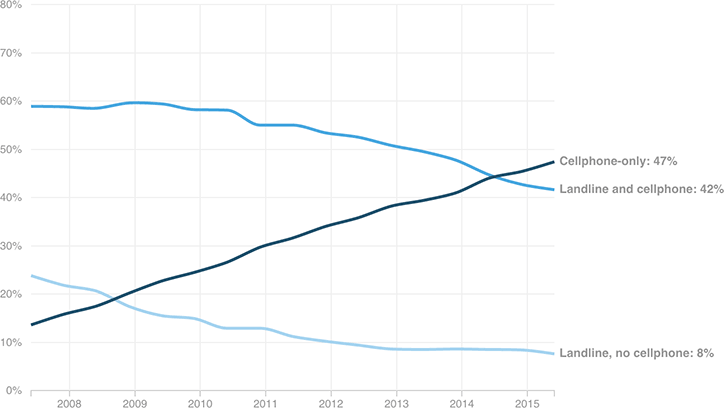
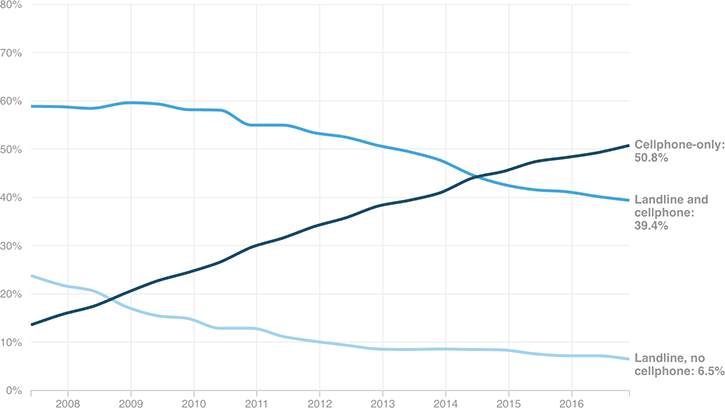
update phone-households-20151203

diff --git a/2015/12/phone-households-20151203/js/graphic-footer.js b/2015/12/phone-households-20151203/js/graphic-footer.js
@@ -8,6 +8,5 @@
  * Build: http://modernizr.com/download/#-svg
  */
 ;window.Modernizr=function(a,b,c){function u(a){i.cssText=a}function v(a,b){return u(prefixes.join(a+";")+(b||""))}function w(a,b){return typeof a===b}function x(a,b){return!!~(""+a).indexOf(b)}function y(a,b,d){for(var e in a){var f=b[a[e]];if(f!==c)return d===!1?a[e]:w(f,"function")?f.bind(d||b):f}return!1}var d="2.7.1",e={},f=b.documentElement,g="modernizr",h=b.createElement(g),i=h.style,j,k={}.toString,l={svg:"http://www.w3.org/2000/svg"},m={},n={},o={},p=[],q=p.slice,r,s={}.hasOwnProperty,t;!w(s,"undefined")&&!w(s.call,"undefined")?t=function(a,b){return s.call(a,b)}:t=function(a,b){return b in a&&w(a.constructor.prototype[b],"undefined")},Function.prototype.bind||(Function.prototype.bind=function(b){var c=this;if(typeof c!="function")throw new TypeError;var d=q.call(arguments,1),e=function(){if(this instanceof e){var a=function(){};a.prototype=c.prototype;var f=new a,g=c.apply(f,d.concat(q.call(arguments)));return Object(g)===g?g:f}return c.apply(b,d.concat(q.call(arguments)))};return e}),m.svg=function(){return!!b.createElementNS&&!!b.createElementNS(l.svg,"svg").createSVGRect};for(var z in m)t(m,z)&&(r=z.toLowerCase(),e[r]=m[z](),p.push((e[r]?"":"no-")+r));return e.addTest=function(a,b){if(typeof a=="object")for(var d in a)t(a,d)&&e.addTest(d,a[d]);else{a=a.toLowerCase();if(e[a]!==c)return e;b=typeof b=="function"?b():b,typeof enableClasses!="undefined"&&enableClasses&&(f.className+=" "+(b?"":"no-")+a),e[a]=b}return e},u(""),h=j=null,e._version=d,e}(this,this.document);
-(function(factory){if(typeof define==='function'&&define.amd)define(factory);else if(typeof module!=='undefined'&&module.exports)module.exports=factory();else window.pym=factory.call(this);})(function(){var MESSAGE_DELIMITER='xPYMx';var lib={};var _getParameterByName=function(name){var regex=new RegExp("[\\?&]"+name.replace(/[\[]/,'\\[').replace(/[\]]/,'\\]')+'=([^&#]*)');var results=regex.exec(location.search);if(results===null)return '';return decodeURIComponent(results[1].replace(/\+/g," "));};var _isSafeMessage=function(e,settings){if(settings.xdomain!=='*')if(!e.origin.match(new RegExp(settings.xdomain+'$')))return;return true;};var _makeMessage=function(id,messageType,message){var bits=['pym',id,messageType,message];return bits.join(MESSAGE_DELIMITER);};var _makeMessageRegex=function(id){var bits=['pym',id,'(\\S+)','(.+)'];return new RegExp('^'+bits.join(MESSAGE_DELIMITER)+'$');};var _autoInit=function(){var elements=document.querySelectorAll('[data-pym-src]:not([data-pym-auto-initialized])');var length=elements.length;for(var idx=0;idx<length;++idx){var element=elements[idx];element.setAttribute('data-pym-auto-initialized','');if(element.id==='')element.id='pym-'+idx;var src=element.getAttribute('data-pym-src');var xdomain=element.getAttribute('data-pym-xdomain');var config={};if(xdomain)config.xdomain=xdomain;new lib.Parent(element.id,src,config);}};lib.Parent=function(id,url,config){this.id=id;this.url=url;this.el=document.getElementById(id);this.iframe=null;this.settings={xdomain:'*'};this.messageRegex=_makeMessageRegex(this.id);this.messageHandlers={};config=(config||{});this._constructIframe=function(){var width=this.el.offsetWidth.toString();this.iframe=document.createElement('iframe');var hash='';var hashIndex=this.url.indexOf('#');if(hashIndex>-1){hash=this.url.substring(hashIndex,this.url.length);this.url=this.url.substring(0,hashIndex);}if(this.url.indexOf('?')<0)this.url+='?';else this.url+='&';this.iframe.src=this.url+'initialWidth='+width+'&childId='+this.id+'&parentUrl='+encodeURIComponent(window.location.href)+hash;this.iframe.setAttribute('width','100%');this.iframe.setAttribute('scrolling','no');this.iframe.setAttribute('marginheight','0');this.iframe.setAttribute('frameborder','0');this.el.appendChild(this.iframe);window.addEventListener('resize',this._onResize);};this._onResize=function(){this.sendWidth();}.bind(this);this._fire=function(messageType,message){if(messageType in this.messageHandlers)for(var i=0;i<this.messageHandlers[messageType].length;i++)this.messageHandlers[messageType][i].call(this,message);};this.remove=function(){window.removeEventListener('message',this._processMessage);window.removeEventListener('resize',this._onResize);this.el.removeChild(this.iframe);};this._processMessage=function(e){if(!_isSafeMessage(e,this.settings))return;if(typeof e.data!=='string')return;var match=e.data.match(this.messageRegex);if(!match||match.length!==3)return false;var messageType=match[1];var message=match[2];this._fire(messageType,message);}.bind(this);this._onHeightMessage=function(message){var height=parseInt(message);this.iframe.setAttribute('height',height+'px');};this._onNavigateToMessage=function(message){document.location.href=message;};this.onMessage=function(messageType,callback){if(!(messageType in this.messageHandlers))this.messageHandlers[messageType]=[];this.messageHandlers[messageType].push(callback);};this.sendMessage=function(messageType,message){this.el.getElementsByTagName('iframe')[0].contentWindow.postMessage(_makeMessage(this.id,messageType,message),'*');};this.sendWidth=function(){var width=this.el.offsetWidth.toString();this.sendMessage('width',width);};for(var key in config)this.settings[key]=config[key];this.onMessage('height',this._onHeightMessage);this.onMessage('navigateTo',this._onNavigateToMessage);window.addEventListener('message',this._processMessage,false);this._constructIframe();return this;};lib.Child=function(config){this.parentWidth=null;this.id=null;this.parentUrl=null;this.settings={renderCallback:null,xdomain:'*',polling:0};this.messageRegex=null;this.messageHandlers={};config=(config||{});this.onMessage=function(messageType,callback){if(!(messageType in this.messageHandlers))this.messageHandlers[messageType]=[];this.messageHandlers[messageType].push(callback);};this._fire=function(messageType,message){if(messageType in this.messageHandlers)for(var i=0;i<this.messageHandlers[messageType].length;i++)this.messageHandlers[messageType][i].call(this,message);};this._processMessage=function(e){if(!_isSafeMessage(e,this.settings))return;if(typeof e.data!=='string')return;var match=e.data.match(this.messageRegex);if(!match||match.length!==3)return;var messageType=match[1];var message=match[2];this._fire(messageType,message);}.bind(this);this._onWidthMessage=function(message){var width=parseInt(message);if(width!==this.parentWidth){this.parentWidth=width;if(this.settings.renderCallback)this.settings.renderCallback(width);this.sendHeight();}};this.sendMessage=function(messageType,message){window.parent.postMessage(_makeMessage(this.id,messageType,message),'*');};this.sendHeight=function(){var height=document.getElementsByTagName('body')[0].offsetHeight.toString();this.sendMessage('height',height);}.bind(this);this.scrollParentTo=function(hash){this.sendMessage('navigateTo','#'+hash);};this.navigateParentTo=function(url){this.sendMessage('navigateTo',url);};this.id=_getParameterByName('childId')||config.id;this.messageRegex=new RegExp('^pym'+MESSAGE_DELIMITER+this.id+MESSAGE_DELIMITER+'(\\S+)'+MESSAGE_DELIMITER+'(.+)$');var width=parseInt(_getParameterByName('initialWidth'));this.parentUrl=_getParameterByName('parentUrl');this.onMessage('width',this._onWidthMessage);for(var key in config)this.settings[key]=config[key];window.addEventListener('message',this._processMessage,false);if(this.settings.renderCallback)this.settings.renderCallback(width);this.sendHeight();if(this.settings.polling)window.setInterval(this.sendHeight,this.settings.polling);return this;};_autoInit();return lib;});
 var DEFAULT_WIDTH=600;var MOBILE_THRESHOLD=500;var fmtComma=d3.format(',');var fmtYearAbbrev=d3.time.format('%y');var fmtYearFull=d3.time.format('%Y');
-var pymChild=null;var isMobile=false;var dataSeries=[];var onWindowLoaded=function(){if(Modernizr.svg){formatData();pymChild=new pym.Child({renderCallback:render});}else pymChild=new pym.Child({});};var formatData=function(){DATA.forEach(function(d){d.date=d3.time.format('%m/%d/%Y').parse(d.date);for(var key in d)if(key!='date'&&d[key]!=null&&d[key].length>0)d[key]=+d[key];});for(var column in DATA[0]){if(column=='date')continue;dataSeries.push({'name':column,'values':DATA.map(function(d){return{'date':d.date,'amt':d[column]};})});}};var render=function(containerWidth){if(!containerWidth)containerWidth=DEFAULT_WIDTH;if(containerWidth<=MOBILE_THRESHOLD)isMobile=true;else isMobile=false;renderLineChart({container:'#line-chart',width:containerWidth,data:dataSeries});if(pymChild)pymChild.sendHeight();};var renderLineChart=function(config){var dateColumn='date';var valueColumn='amt';var aspectWidth=isMobile?4:16;var aspectHeight=isMobile?3:9;var margins={top:5,right:175,bottom:20,left:32};var ticksX=10;var ticksY=10;var roundTicksFactor=80;if(isMobile){ticksX=5;ticksY=5;margins.right=25;}var chartWidth=config.width-margins.left-margins.right;var chartHeight=Math.ceil((config.width*aspectHeight)/aspectWidth)-margins.top-margins.bottom;var containerElement=d3.select(config.container);containerElement.html('');var xScale=d3.time.scale().domain(d3.extent(config.data[0].values,function(d){return d.date;})).range([0,chartWidth]);var min=d3.min(config.data,function(d){return d3.min(d.values,function(v){return Math.floor(v[valueColumn]/roundTicksFactor)*roundTicksFactor;});});if(min>0)min=0;var max=d3.max(config.data,function(d){return d3.max(d.values,function(v){return Math.ceil(v[valueColumn]/roundTicksFactor)*roundTicksFactor;});});var yScale=d3.scale.linear().domain([min,max]).range([chartHeight,0]);var colorScale=d3.scale.ordinal().domain(_.pluck(config.data,'name')).range([COLORS.blue1,COLORS.blue3,COLORS.blue5]);var legend=containerElement.append('ul').attr('class','key').selectAll('g').data(config.data).enter().append('li').attr('class',function(d,i){return 'key-item '+classify(d.name);});legend.append('b').style('background-color',function(d){return colorScale(d.name);});legend.append('label').text(function(d){return d.name;});var chartWrapper=containerElement.append('div').attr('class','graphic-wrapper');var chartElement=chartWrapper.append('svg').attr('width',chartWidth+margins.left+margins.right).attr('height',chartHeight+margins.top+margins.bottom).append('g').attr('transform','translate('+margins.left+','+margins.top+')');var xAxis=d3.svg.axis().scale(xScale).orient('bottom').ticks(ticksX).tickFormat(function(d,i){if(isMobile)return '\u2019'+fmtYearAbbrev(d);else return fmtYearFull(d);});var yAxis=d3.svg.axis().scale(yScale).orient('left').ticks(ticksY).tickFormat(function(d){return d+'%';});chartElement.append('g').attr('class','x axis').attr('transform',makeTranslate(0,chartHeight)).call(xAxis);chartElement.append('g').attr('class','y axis').call(yAxis);var xAxisGrid=function(){return xAxis;};var yAxisGrid=function(){return yAxis;};chartElement.append('g').attr('class','x grid').attr('transform',makeTranslate(0,chartHeight)).call(xAxisGrid().tickSize(-chartHeight,0,0).tickFormat(''));chartElement.append('g').attr('class','y grid').call(yAxisGrid().tickSize(-chartWidth,0,0).tickFormat(''));var line=d3.svg.line().interpolate('monotone').x(function(d){return xScale(d[dateColumn]);}).y(function(d){return yScale(d[valueColumn]);});chartElement.append('g').attr('class','lines').selectAll('path').data(config.data).enter().append('path').attr('class',function(d,i){return 'line '+classify(d.name);}).attr('stroke',function(d){return colorScale(d.name);}).attr('d',function(d){return line(d.values);});chartElement.select('path.cellphone-only').moveToFront();chartElement.append('g').attr('class','value').selectAll('text').data(config.data).enter().append('text').attr('x',function(d,i){var last=d.values[d.values.length-1];return xScale(last[dateColumn])+5;}).attr('y',function(d){var last=d.values[d.values.length-1];return yScale(last[valueColumn])+3;}).text(function(d){var last=d.values[d.values.length-1];var value=last[valueColumn];var label=last[valueColumn].toFixed(0)+'%';if(!isMobile)label=d.name+': '+label;return label;});};d3.selection.prototype.moveToFront=function(){return this.each(function(){this.parentNode.appendChild(this);});};window.onload=onWindowLoaded;
+var pymChild=null;var isMobile=false;var dataSeries=[];var onWindowLoaded=function(){if(Modernizr.svg){formatData();pymChild=new pym.Child({renderCallback:render});}else pymChild=new pym.Child({});};var formatData=function(){DATA.forEach(function(d){d.date=d3.time.format('%m/%d/%Y').parse(d.date);for(var key in d)if(key!='date'&&d[key]!=null&&d[key].length>0)d[key]=+d[key];});for(var column in DATA[0]){if(column=='date')continue;dataSeries.push({'name':column,'values':DATA.map(function(d){return{'date':d.date,'amt':d[column]};})});}};var render=function(containerWidth){if(!containerWidth)containerWidth=DEFAULT_WIDTH;if(containerWidth<=MOBILE_THRESHOLD)isMobile=true;else isMobile=false;renderLineChart({container:'#line-chart',width:containerWidth,data:dataSeries});if(pymChild)pymChild.sendHeight();};var renderLineChart=function(config){var dateColumn='date';var valueColumn='amt';var aspectWidth=isMobile?4:16;var aspectHeight=isMobile?3:9;var margins={top:5,right:100,bottom:20,left:32};var ticksX=10;var ticksY=10;var roundTicksFactor=80;var labelLineHeight=13;if(isMobile){ticksX=5;ticksY=5;margins.right=85;labelLineHeight=11;}var chartWidth=config.width-margins.left-margins.right;var chartHeight=Math.ceil((config.width*aspectHeight)/aspectWidth)-margins.top-margins.bottom;var containerElement=d3.select(config.container);containerElement.html('');var xScale=d3.time.scale().domain(d3.extent(config.data[0].values,function(d){return d.date;})).range([0,chartWidth]);var min=d3.min(config.data,function(d){return d3.min(d.values,function(v){return Math.floor(v[valueColumn]/roundTicksFactor)*roundTicksFactor;});});if(min>0)min=0;var max=d3.max(config.data,function(d){return d3.max(d.values,function(v){return Math.ceil(v[valueColumn]/roundTicksFactor)*roundTicksFactor;});});var yScale=d3.scale.linear().domain([min,max]).range([chartHeight,0]);var colorScale=d3.scale.ordinal().domain(_.pluck(config.data,'name')).range([COLORS.blue1,COLORS.blue3,COLORS.blue5]);var chartWrapper=containerElement.append('div').attr('class','graphic-wrapper');var chartElement=chartWrapper.append('svg').attr('width',chartWidth+margins.left+margins.right).attr('height',chartHeight+margins.top+margins.bottom).append('g').attr('transform','translate('+margins.left+','+margins.top+')');var xAxis=d3.svg.axis().scale(xScale).orient('bottom').ticks(ticksX).tickFormat(function(d,i){if(isMobile)return '\u2019'+fmtYearAbbrev(d);else return fmtYearFull(d);});var yAxis=d3.svg.axis().scale(yScale).orient('left').ticks(ticksY).tickFormat(function(d){return d+'%';});chartElement.append('g').attr('class','x axis').attr('transform',makeTranslate(0,chartHeight)).call(xAxis);chartElement.append('g').attr('class','y axis').call(yAxis);var xAxisGrid=function(){return xAxis;};var yAxisGrid=function(){return yAxis;};chartElement.append('g').attr('class','x grid').attr('transform',makeTranslate(0,chartHeight)).call(xAxisGrid().tickSize(-chartHeight,0,0).tickFormat(''));chartElement.append('g').attr('class','y grid').call(yAxisGrid().tickSize(-chartWidth,0,0).tickFormat(''));var line=d3.svg.line().interpolate('monotone').x(function(d){return xScale(d[dateColumn]);}).y(function(d){return yScale(d[valueColumn]);});chartElement.append('g').attr('class','lines').selectAll('path').data(config.data).enter().append('path').attr('class',function(d,i){return 'line '+classify(d.name);}).attr('stroke',function(d){return colorScale(d.name);}).attr('d',function(d){return line(d.values);});chartElement.select('path.cellphone-only').moveToFront();chartElement.append('g').attr('class','value').selectAll('text').data(config.data).enter().append('text').attr('x',function(d,i){var last=d.values[d.values.length-1];return xScale(last[dateColumn])+5;}).attr('y',function(d){var last=d.values[d.values.length-1];return yScale(last[valueColumn])+3;}).text(function(d){var last=d.values[d.values.length-1];var value=last[valueColumn];var label=d.name+': '+last[valueColumn].toFixed(1)+'%';return label;}).call(wrapText,margins.right-5,labelLineHeight);};d3.selection.prototype.moveToFront=function(){return this.each(function(){this.parentNode.appendChild(this);});};window.onload=onWindowLoaded;

diff --git a/2015/12/phone-households-20151203/child.html b/2015/12/phone-households-20151203/child.html
@@ -43,13 +43,13 @@
 
     <!-- CSS + LESS -->
     
-    <link rel="stylesheet" type="text/css" href="css/graphic-header.css?1490557380" />
+    <link rel="stylesheet" type="text/css" href="css/graphic-header.css?1493758225" />
 </head>
 <body>
     <!-- Analytics -->
     
     
-    <script type="text/javascript" src="js/graphic-header.js?1490557380"></script>
+    <script type="text/javascript" src="js/graphic-header.js?1493758225"></script>
 
     
 
@@ -63,26 +63,24 @@
     
 
     <div class="footer">
-        <p>Source: <a href="http://www.cdc.gov/nchs/nhis/releases.htm#wireless">CDC/NCHS, National Health Interview Survey</a></p>
+        <p>Source: <a href="http://www.cdc.gov/nchs/nhis/releases.htm#wireless">CDC/NCHS, National Health Interview Survey</a>. Updated May 2, 2017.</p>
         <p>Credit: Alyson Hurt and Alina Selyukh/NPR</p>
     </div>
 
     <script type="text/javascript">
-        var DATA = [{"date": "6/1/2007", "Cellphone-only": "13.6", "Landline and cellphone": "58.9", "Landline, no cellphone": "23.8"}, {"date": "12/1/2007", "Cellphone-only": "15.8", "Landline and cellphone": "58.8", "Landline, no cellphone": "21.8"}, {"date": "6/1/2008", "Cellphone-only": "17.5", "Landline and cellphone": "58.5", "Landline, no cellphone": "20.6"}, {"date": "12/1/2008", "Cellphone-only": "20.2", "Landline and cellphone": "59.6", "Landline, no cellphone": "17.4"}, {"date": "6/1/2009", "Cellphone-only": "22.7", "Landline and cellphone": "59.4", "Landline, no cellphone": "15.5"}, {"date": "12/1/2009", "Cellphone-only": "24.5", "Landline and cellphone": "58.2", "Landline, no cellphone": "14.9"}, {"date": "6/1/2010", "Cellphone-only": "26.6", "Landline and cellphone": "58.1", "Landline, no cellphone": "12.9"}, {"date": "12/1/2010", "Cellphone-only": "29.7", "Landline and cellphone": "55", "Landline, no cellphone": "12.9"}, {"date": "6/1/2011", "Cellphone-only": "31.6", "Landline and cellphone": "55", "Landline, no cellphone": "11.2"}, {"date": "12/1/2011", "Cellphone-only": "34", "Landline and cellphone": "53.4", "Landline, no cellphone": "10.2"}, {"date": "6/1/2012", "Cellphone-only": "35.8", "Landline and cellphone": "52.5", "Landline, no cellphone": "9.4"}, {"date": "12/1/2012", "Cellphone-only": "38.2", "Landline and cellphone": "50.8", "Landline, no cellphone": "8.6"}, {"date": "6/1/2013", "Cellphone-only": "39.4", "Landline and cellphone": "49.5", "Landline, no cellphone": "8.5"}, {"date": "12/1/2013", "Cellphone-only": "41", "Landline and cellphone": "47.7", "Landline, no cellphone": "8.6"}, {"date": "6/1/2014", "Cellphone-only": "44", "Landline and cellphone": "44.7", "Landline, no cellphone": "8.5"}, {"date": "12/1/2014", "Cellphone-only": "45.4", "Landline and cellphone": "42.7", "Landline, no cellphone": "8.4"}, {"date": "6/1/2015", "Cellphone-only": "47.4", "Landline and cellphone": "41.6", "Landline, no cellphone": "7.6"}];
+        var DATA = [{"date": "6/1/2007", "Cellphone-only": "13.6", "Landline and cellphone": "58.9", "Landline, no cellphone": "23.8"}, {"date": "12/1/2007", "Cellphone-only": "15.8", "Landline and cellphone": "58.8", "Landline, no cellphone": "21.8"}, {"date": "6/1/2008", "Cellphone-only": "17.5", "Landline and cellphone": "58.5", "Landline, no cellphone": "20.6"}, {"date": "12/1/2008", "Cellphone-only": "20.2", "Landline and cellphone": "59.6", "Landline, no cellphone": "17.4"}, {"date": "6/1/2009", "Cellphone-only": "22.7", "Landline and cellphone": "59.4", "Landline, no cellphone": "15.5"}, {"date": "12/1/2009", "Cellphone-only": "24.5", "Landline and cellphone": "58.2", "Landline, no cellphone": "14.9"}, {"date": "6/1/2010", "Cellphone-only": "26.6", "Landline and cellphone": "58.1", "Landline, no cellphone": "12.9"}, {"date": "12/1/2010", "Cellphone-only": "29.7", "Landline and cellphone": "55", "Landline, no cellphone": "12.9"}, {"date": "6/1/2011", "Cellphone-only": "31.6", "Landline and cellphone": "55", "Landline, no cellphone": "11.2"}, {"date": "12/1/2011", "Cellphone-only": "34", "Landline and cellphone": "53.4", "Landline, no cellphone": "10.2"}, {"date": "6/1/2012", "Cellphone-only": "35.8", "Landline and cellphone": "52.5", "Landline, no cellphone": "9.4"}, {"date": "12/1/2012", "Cellphone-only": "38.2", "Landline and cellphone": "50.8", "Landline, no cellphone": "8.6"}, {"date": "6/1/2013", "Cellphone-only": "39.4", "Landline and cellphone": "49.5", "Landline, no cellphone": "8.5"}, {"date": "12/1/2013", "Cellphone-only": "41", "Landline and cellphone": "47.7", "Landline, no cellphone": "8.6"}, {"date": "6/1/2014", "Cellphone-only": "44", "Landline and cellphone": "44.7", "Landline, no cellphone": "8.5"}, {"date": "12/1/2014", "Cellphone-only": "45.4", "Landline and cellphone": "42.7", "Landline, no cellphone": "8.4"}, {"date": "6/1/2015", "Cellphone-only": "47.4", "Landline and cellphone": "41.6", "Landline, no cellphone": "7.6"}, {"date": "12/1/2015", "Cellphone-only": "48.3", "Landline and cellphone": "41.2", "Landline, no cellphone": "7.2"}, {"date": "6/1/2016", "Cellphone-only": "49.3", "Landline and cellphone": "40.2", "Landline, no cellphone": "7.2"}, {"date": "12/1/2016", "Cellphone-only": "50.8", "Landline and cellphone": "39.4", "Landline, no cellphone": "6.5"}];
     </script>
 
 
 
+    <script type="text/javascript" src="https://pym.nprapps.org/pym.v1.min.js"></script>
     
-
         
         
         
         
         
-        
-        <script type="text/javascript" src="js/graphic-footer.js?1490557380"></script>
-
+        <script type="text/javascript" src="js/graphic-footer.js?1493758225"></script>
     
 </body>
 </html>

diff --git a/2015/12/phone-households-20151203/js/graphic-header.js b/2015/12/phone-households-20151203/js/graphic-header.js
@@ -1,2 +1,2 @@
-var COLORS={'red1':'#6C2315','red2':'#A23520','red3':'#D8472B','red4':'#E27560','red5':'#ECA395','red6':'#F5D1CA','orange1':'#714616','orange2':'#AA6A21','orange3':'#E38D2C','orange4':'#EAAA61','orange5':'#F1C696','orange6':'#F8E2CA','yellow1':'#77631B','yellow2':'#B39429','yellow3':'#EFC637','yellow4':'#F3D469','yellow5':'#F7E39B','yellow6':'#FBF1CD','teal1':'#0B403F','teal2':'#11605E','teal3':'#17807E','teal4':'#51A09E','teal5':'#8BC0BF','teal6':'#C5DFDF','blue1':'#28556F','blue2':'#3D7FA6','blue3':'#51AADE','blue4':'#7DBFE6','blue5':'#A8D5EF','blue6':'#D3EAF7'};var classify=function(str){return str.toLowerCase().replace(/\s+/g,'-').replace(/[^\w\-]+/g,'').replace(/\-\-+/g,'-').replace(/^-+/,'').replace(/-+$/,'');};var formatStyle=function(props){var s='';for(var key in props)s+=key+': '+props[key].toString()+'; ';return s;};var makeTranslate=function(x,y){var transform=d3.transform();transform.translate[0]=x;transform.translate[1]=y;return transform.toString();};var getParameterByName=function(name){name=name.replace(/[\[]/,"\\[").replace(/[\]]/,"\\]");var regex=new RegExp("[\\?&]"+name+"=([^&#]*)"),results=regex.exec(location.search);return results===null?"":decodeURIComponent(results[1].replace(/\+/g," "));};var urlToLocation=function(url){var a=document.createElement('a');a.href=url;return a;};
+var COLORS={'red1':'#6C2315','red2':'#A23520','red3':'#D8472B','red4':'#E27560','red5':'#ECA395','red6':'#F5D1CA','orange1':'#714616','orange2':'#AA6A21','orange3':'#E38D2C','orange4':'#EAAA61','orange5':'#F1C696','orange6':'#F8E2CA','yellow1':'#77631B','yellow2':'#B39429','yellow3':'#EFC637','yellow4':'#F3D469','yellow5':'#F7E39B','yellow6':'#FBF1CD','teal1':'#0B403F','teal2':'#11605E','teal3':'#17807E','teal4':'#51A09E','teal5':'#8BC0BF','teal6':'#C5DFDF','blue1':'#28556F','blue2':'#3D7FA6','blue3':'#51AADE','blue4':'#7DBFE6','blue5':'#A8D5EF','blue6':'#D3EAF7'};var classify=function(str){return str.toLowerCase().replace(/\s+/g,'-').replace(/[^\w\-]+/g,'').replace(/\-\-+/g,'-').replace(/^-+/,'').replace(/-+$/,'');};var formatStyle=function(props){var s='';for(var key in props)s+=key+': '+props[key].toString()+'; ';return s;};var makeTranslate=function(x,y){var transform=d3.transform();transform.translate[0]=x;transform.translate[1]=y;return transform.toString();};var getParameterByName=function(name){name=name.replace(/[\[]/,"\\[").replace(/[\]]/,"\\]");var regex=new RegExp("[\\?&]"+name+"=([^&#]*)"),results=regex.exec(location.search);return results===null?"":decodeURIComponent(results[1].replace(/\+/g," "));};var urlToLocation=function(url){var a=document.createElement('a');a.href=url;return a;};var getAPMonth=function(dateObj){var apMonths=['Jan.','Feb.','March','April','May','June','July','Aug.','Sept.','Oct.','Nov.','Dec.'];var thisMonth=+fmtMonthNum(dateObj)-1;return apMonths[thisMonth];};var wrapText=function(texts,width,lineHeight){texts.each(function(){var text=d3.select(this);var words=text.text().split(/\s+/).reverse();var word=null;var line=[];var lineNumber=0;var x=text.attr('x');var y=text.attr('y');var dx=text.attr('dx')?parseFloat(text.attr('dx')):0;var dy=text.attr('dy')?parseFloat(text.attr('dy')):0;var tspan=text.text(null).append('tspan').attr('x',x).attr('y',y).attr('dx',dx+'px').attr('dy',dy+'px');while(word=words.pop()){line.push(word);tspan.text(line.join(' '));if(tspan.node().getComputedTextLength()>width){line.pop();tspan.text(line.join(' '));line=[word];lineNumber+=1;tspan=text.append('tspan').attr('x',x).attr('y',y).attr('dx',dx+'px').attr('dy',lineNumber*lineHeight).attr('text-anchor','begin').text(word);}}});};var getLocation=function(href){var l=document.createElement("a");l.href=href;return l;};var isProduction=function(u){var result=true;var u=u||window.location.href;var re_embedded=/^.*parentUrl=(.*)$/;var m=u.match(re_embedded);if(m)u=decodeURIComponent(m[1]);l=getLocation(u);if(l.hostname.startsWith("localhost")||l.hostname.startsWith("stage-")||l.hostname.startsWith("www-s1"))result=false;return result;};if(!String.prototype.trim)String.prototype.trim=function(){return this.replace(/^[\s\uFEFF\xA0]+|[\s\uFEFF\xA0]+$/g,'');};
 var ANALYTICS=(function(){var DIMENSION_PARENT_URL='dimension1';var DIMENSION_PARENT_HOSTNAME='dimension2';var DIMENSION_PARENT_INITIAL_WIDTH='dimension3';var setupGoogle=function(){(function(i,s,o,g,r,a,m){i.GoogleAnalyticsObject=r;i[r]=i[r]||function(){(i[r].q=i[r].q||[]).push(arguments);},i[r].l=1*new Date();a=s.createElement(o),m=s.getElementsByTagName(o)[0];a.async=1;a.src=g;m.parentNode.insertBefore(a,m);})(window,document,'script','//www.google-analytics.com/analytics.js','ga');ga('create',GOOGLE_ANALYTICS_ACCOUNT_ID,'auto');var location=window.location.protocol+'//'+window.location.hostname+window.location.pathname;ga('set','location',location);ga('set','page',window.location.pathname);var parentUrl=getParameterByName('parentUrl')||'';var parentHostname='';if(parentUrl)parentHostname=urlToLocation(parentUrl).hostname;var initialWidth=getParameterByName('initialWidth')||'';var customData={};customData[DIMENSION_PARENT_URL]=parentUrl;customData[DIMENSION_PARENT_HOSTNAME]=parentHostname;customData[DIMENSION_PARENT_INITIAL_WIDTH]=initialWidth;ga('send','pageview',customData);};var trackEvent=function(eventName,label,value){var eventData={'hitType':'event','eventCategory':GOOGLE_ANALYTICS_PROJECT_SLUG,'eventAction':eventName};if(label)eventData.eventLabel=label;if(value)eventData.eventValue=value;ga('send',eventData);};setupGoogle();return{'trackEvent':trackEvent};}());

diff --git a/2015/12/phone-households-20151203/index.html b/2015/12/phone-households-20151203/index.html
@@ -159,8 +159,6 @@
 
         <h2><span class="production">Production</span> embed code (for Seamus)</h2>
 
-        <h2><span class="production">This has been redeployed from a custom location. Check thoroughly before using in a new graphic.</span></h2>
-
 
 <!-- textarea contents -->
     <textarea readonly="readonly" rows="10" cols="50">
@@ -172,7 +170,7 @@
             var el = document.getElementById("responsive-embed-phone-households-20151203");
             el.id = el.id + "-" + Math.random().toString(36).substr(2,5);
 
-            jQuery.getScript("js/lib/pym.js").done(function () {
+            jQuery.getScript("https://pym.nprapps.org/pym.v1.min.js").done(function () {
 
                 jQuery(function () { // Wait for page load
                     var pymParent = new pym.Parent(
@@ -180,6 +178,25 @@
                         'https://apps.npr.org/dailygraphics/graphics/phone-households-20151203/child.html',
                         {}
                     );
+
+                    jQuery.getScript("https://carebot.nprapps.org/carebot-tracker.v0.min.js").done(function () {
+                        var tracker = new CarebotTracker.VisibilityTracker(el.id, function(result) {
+                            // Ignore Carebot events to empty embeds, keeps listening after unloading the page
+                            if (pymParent.el.getElementsByTagName('iframe').length !== 0) {
+                                pymParent.sendMessage('on-screen', result.bucket);
+                            }
+                        });
+                        // Check if there is already an scroll tracker somewhere on the page
+                        if (!document.querySelector("[data-carebot-scroll]")) {
+                            pymParent.el.setAttribute("data-carebot-scroll", "");
+                            var scrollTracker = new CarebotTracker.ScrollTracker('storytext', function(percent, seconds) {
+                                // Ignore Carebot events to empty embeds, keeps listening after unloading the page
+                                if (pymParent.el.getElementsByTagName('iframe').length !== 0) {
+                                    pymParent.sendMessage('scroll-depth', JSON.stringify({percent: percent,seconds: seconds}));
+                                }
+                            });
+                        }
+                    });
 
                 });
             });
@@ -201,9 +218,11 @@
 
     </div>
 
-    <script type="text/javascript" src="js/lib/pym.js"></script>
+    <script type="text/javascript" src="https://pym.nprapps.org/pym.v1.min.js"></script>
 
 
+
+    <script type="text/javascript" src="https://carebot.nprapps.org/carebot-tracker.v0.min.js"></script>
 
 
     <script type="text/javascript">
@@ -260,6 +279,10 @@
         }
 
         var pymParent = new pym.Parent('preview', 'child.html', {});
+
+        var tracker = new CarebotTracker.VisibilityTracker('preview', function(result) {
+            pymParent.sendMessage('on-screen', result.bucket);
+        });
 
     </script>
 </body>

diff --git a/2015/12/phone-households-20151203/js/helpers.js b/2015/12/phone-households-20151203/js/helpers.js
@@ -70,3 +70,103 @@ var urlToLocation = function(url) {
     a.href = url;
     return a;
 }
+
+/*
+ * format month abbrs in AP style
+ */
+var getAPMonth = function(dateObj) {
+    var apMonths = [ 'Jan.', 'Feb.', 'March', 'April', 'May', 'June', 'July', 'Aug.', 'Sept.', 'Oct.', 'Nov.', 'Dec.' ];
+    var thisMonth = +fmtMonthNum(dateObj) - 1;
+    return apMonths[thisMonth];
+}
+
+/*
+ * Wrap a block of SVG text to a given width
+ * adapted from http://bl.ocks.org/mbostock/7555321
+ */
+var wrapText = function(texts, width, lineHeight) {
+    texts.each(function() {
+        var text = d3.select(this);
+        var words = text.text().split(/\s+/).reverse();
+
+        var word = null;
+        var line = [];
+        var lineNumber = 0;
+
+        var x = text.attr('x');
+        var y = text.attr('y');
+
+        var dx = text.attr('dx') ? parseFloat(text.attr('dx')) : 0;
+        var dy = text.attr('dy') ? parseFloat(text.attr('dy')) : 0;
+
+        var tspan = text.text(null)
+            .append('tspan')
+            .attr('x', x)
+            .attr('y', y)
+            .attr('dx', dx + 'px')
+            .attr('dy', dy + 'px');
+
+        while (word = words.pop()) {
+            line.push(word);
+            tspan.text(line.join(' '));
+
+            if (tspan.node().getComputedTextLength() > width) {
+                line.pop();
+                tspan.text(line.join(' '));
+                line = [word];
+
+                lineNumber += 1;
+
+                tspan = text.append('tspan')
+                    .attr('x', x)
+                    .attr('y', y)
+                    .attr('dx', dx + 'px')
+                    .attr('dy', lineNumber * lineHeight)
+                    .attr('text-anchor', 'begin')
+                    .text(word);
+            }
+        }
+    });
+}
+
+/*
+ * Constructs a location object from a url
+ */
+var getLocation = function(href) {
+    var l = document.createElement("a");
+    l.href = href;
+    return l;
+};
+
+/*
+ * Checks if we are in production based on the url hostname
+ * When embedded with pym it checks the parentUrl param
+ * - If a url is given checks that
+ * - If no url is given checks window.location.href
+ */
+var isProduction = function(u) {
+    var result = true;
+    var u = u || window.location.href;
+    var re_embedded = /^.*parentUrl=(.*)$/;
+    // Check if we are inside the dailygraphics local rig
+    var m = u.match(re_embedded)
+    if (m) {
+        u = decodeURIComponent(m[1])
+    }
+    l = getLocation(u);
+    if (l.hostname.startsWith("localhost") ||
+        l.hostname.startsWith("stage-") ||
+        l.hostname.startsWith("www-s1")) {
+        result = false
+    }
+    return result;
+}
+
+/*
+ * Polyfill for String.trim()
+ */
+if (!String.prototype.trim) {
+    String.prototype.trim = function () {
+        return this.replace(/^[\s\uFEFF\xA0]+|[\s\uFEFF\xA0]+$/g, '');
+    };
+}

diff --git a/2015/12/phone-households-20151203/js/graphic.js b/2015/12/phone-households-20151203/js/graphic.js
@@ -97,7 +97,7 @@ var renderLineChart = function(config) {
 
     var margins = {
         top: 5,
-        right: 175,
+        right: 100,
         bottom: 20,
         left: 32
     };
@@ -105,12 +105,14 @@ var renderLineChart = function(config) {
     var ticksX = 10;
     var ticksY = 10;
     var roundTicksFactor = 80;
+    var labelLineHeight = 13;
 
     // Mobile
     if (isMobile) {
         ticksX = 5;
         ticksY = 5;
-        margins['right'] = 25;
+        margins['right'] = 85;
+        labelLineHeight = 11;
     }
 
     // Calculate actual chart dimensions
@@ -153,28 +155,6 @@ var renderLineChart = function(config) {
     var colorScale = d3.scale.ordinal()
         .domain(_.pluck(config['data'], 'name'))
         .range([ COLORS['blue1'], COLORS['blue3'], COLORS['blue5'] ]);
-
-    /*
-     * Render the HTML legend.
-     */
-    var legend = containerElement.append('ul')
-        .attr('class', 'key')
-        .selectAll('g')
-        .data(config['data'])
-        .enter().append('li')
-            .attr('class', function(d, i) {
-                return 'key-item ' + classify(d['name']);
-            });
-
-    legend.append('b')
-        .style('background-color', function(d) {
-            return colorScale(d['name']);
-        });
-
-    legend.append('label')
-        .text(function(d) {
-            return d['name'];
-        });
 
     /*
      * Create the root SVG element.
@@ -296,15 +276,10 @@ var renderLineChart = function(config) {
             .text(function(d) {
                 var last = d['values'][d['values'].length - 1];
                 var value = last[valueColumn];
-
-                var label = last[valueColumn].toFixed(0) + '%';
-
-                if (!isMobile) {
-                    label = d['name'] + ': ' + label;
-                }
-
+                var label = d['name'] + ': ' + last[valueColumn].toFixed(1) + '%';
                 return label;
-            });
+            })
+            .call(wrapText, margins['right'] - 5, labelLineHeight);
 }
 
 

diff --git a/2015/12/phone-households-20151203/base_template.html b/2015/12/phone-households-20151203/base_template.html
@@ -57,16 +57,14 @@
 
     {% endblock content %}
 
+    <script type="text/javascript" src="{{ PYM['pym_url'] }}"></script>
     {% block js %}
-
         {{ JS.push('js/lib/underscore.js') }}
         {{ JS.push('js/lib/d3.min.js') }}
         {{ JS.push('js/lib/modernizr.svg.min.js') }}
-        {{ JS.push('js/lib/pym.js') }}
         {{ JS.push('js/base.js') }}
         {{ JS.push('js/graphic.js') }}
         {{ JS.render('js/graphic-footer.js') }}
-
     {% endblock js %}
 </body>
 </html>
